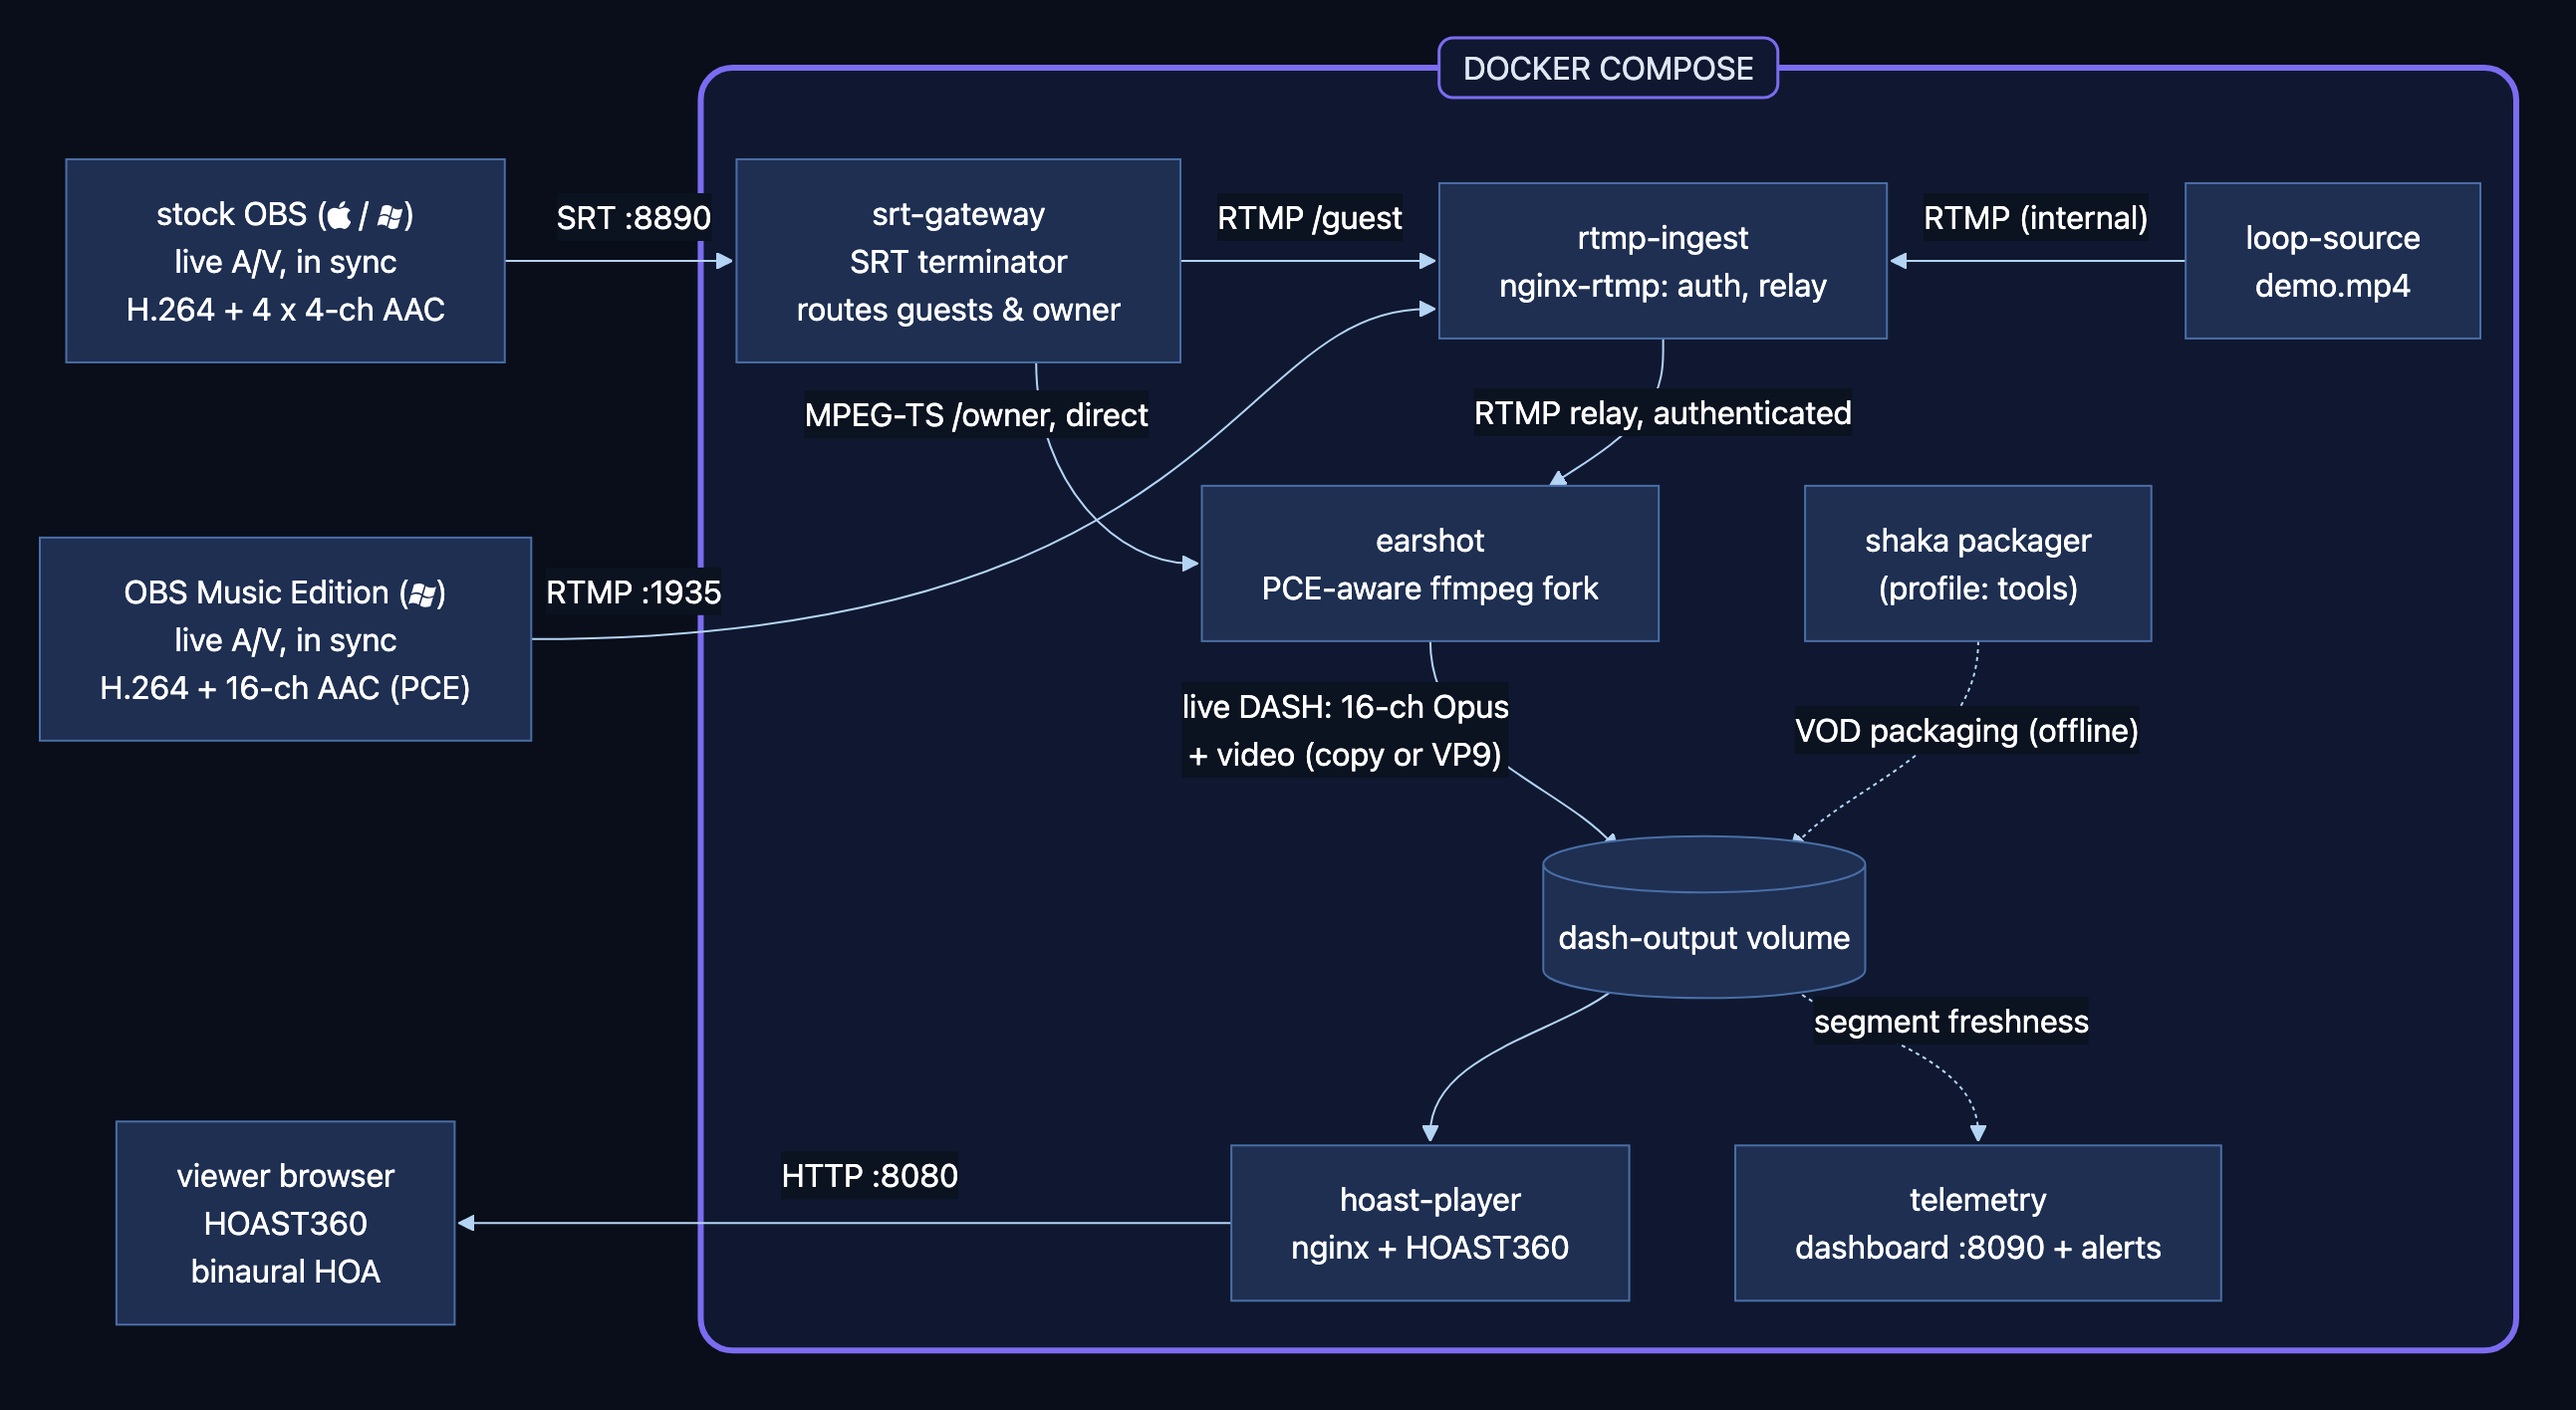
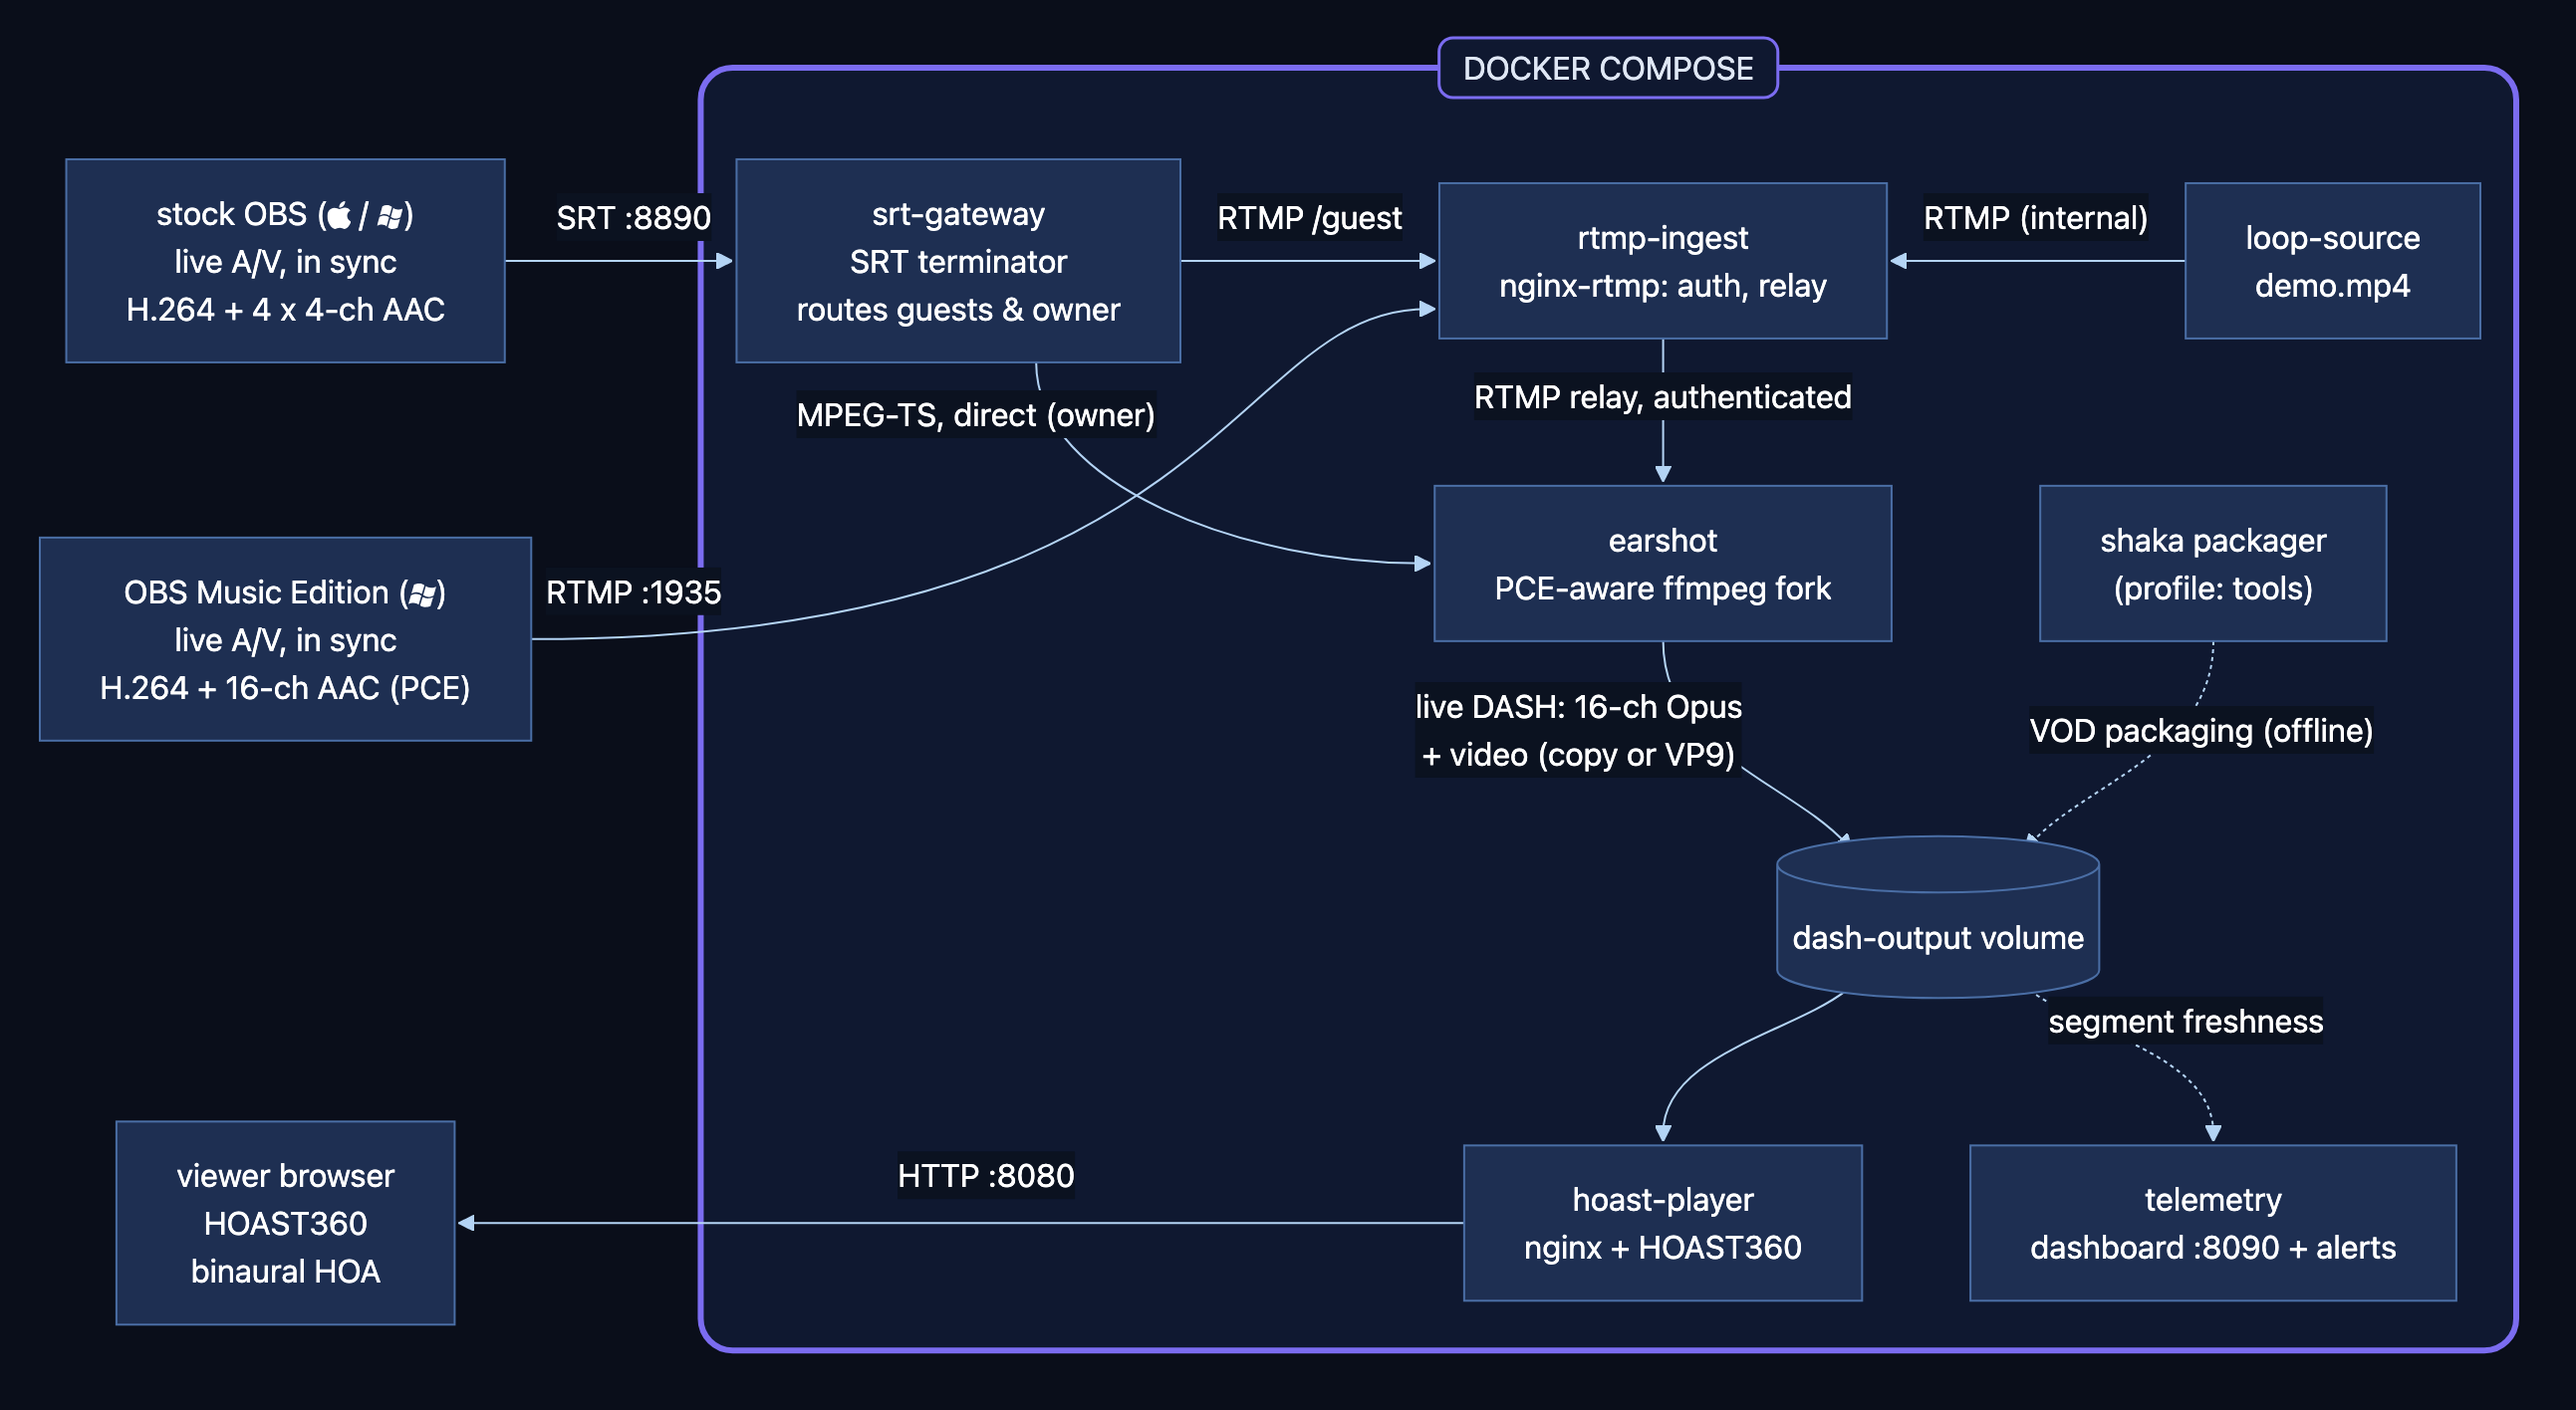
Diagram: straight relay line, and honest edge labels
Slide the lower cluster (earshot, shaka, volume, player, telemetry) right
so earshot sits under rtmp-ingest and the RTMP-relay edge is a straight
vertical rather than a diagonal - the operator's call after seeing both.

Labels: /guest is a real RTMP application name (the gateway publishes
rtmp://rtmp-ingest/guest), so it earns the slash. /owner and /internal
are not paths anywhere - the direct owner route is a bare tcp port with
no path, and loop-source publishes into /live, not /internal - so those
revert to parentheticals. Only /guest means a URL path; the rest are role
and locality notes.

diff --git a/docs/architecture/postprocess.py b/docs/architecture/postprocess.py
@@ -82,6 +82,18 @@ _,   vy_ = node_pos('VOL');     vhw_, vhh_ = _cyl_half('VOL')
 _,   ppy = node_pos('PLAYER');  phh = node_halfheight('PLAYER')
 _,   tty = node_pos('TELEM');   thh = node_halfheight('TELEM')
 
+# Slide the whole lower X-cluster right so earshot sits directly under
+# rtmp-ingest and the relay edge (RTMP relay, authenticated) is a straight
+# vertical instead of a diagonal. earshot, shaka, the volume, hoast-player and
+# telemetry all shift by the same delta, so the X keeps its shape; the edges
+# below already derive from ex_/sx_, so only the two edges INTO earshot need
+# redrawing (the relay just below, the owner-direct edge at its own section).
+X_DELTA = _ix - ex_
+_move('EARSHOT', _ix, ey_)
+_move('SHAKA', sx_ + X_DELTA, sy_)
+ex_ = _ix
+sx_ = sx_ + X_DELTA
+
 PLX = ex_                      # hoast-player under earshot
 TLX = sx_                      # telemetry under shaka
 VLX = (ex_ + sx_) / 2.0        # volume centred between the columns
@@ -228,6 +240,12 @@ set_edge('L_GATEWAY_EARSHOT_0',
 # where this edge passes closest to the guest run's own label, and two labels
 # that near each other read as one.
 set_label('L_GATEWAY_EARSHOT_0', d_sx - 30.0, d_sy + 26.0)
+
+# With earshot now under ingest, redraw the relay edge as a straight vertical
+# (dagre drew it diagonal for the pre-shift earshot position). Its label rides
+# on the line, its dark bg box occluding it the way every other edge label does.
+set_edge('L_INGEST_EARSHOT_0', f"M{ix},{iy + ihh}L{ex_},{ey_ - ehh - 6}")
+set_label('L_INGEST_EARSHOT_0', ix, (iy + ihh + ey_ - ehh) / 2.0 - 8.0)
 
 # 3) OBS Music Edition -> ingest: a symmetric S-curve in the style of the
 #    dash-output volume edges - horizontal at both ends, sweeping up into
